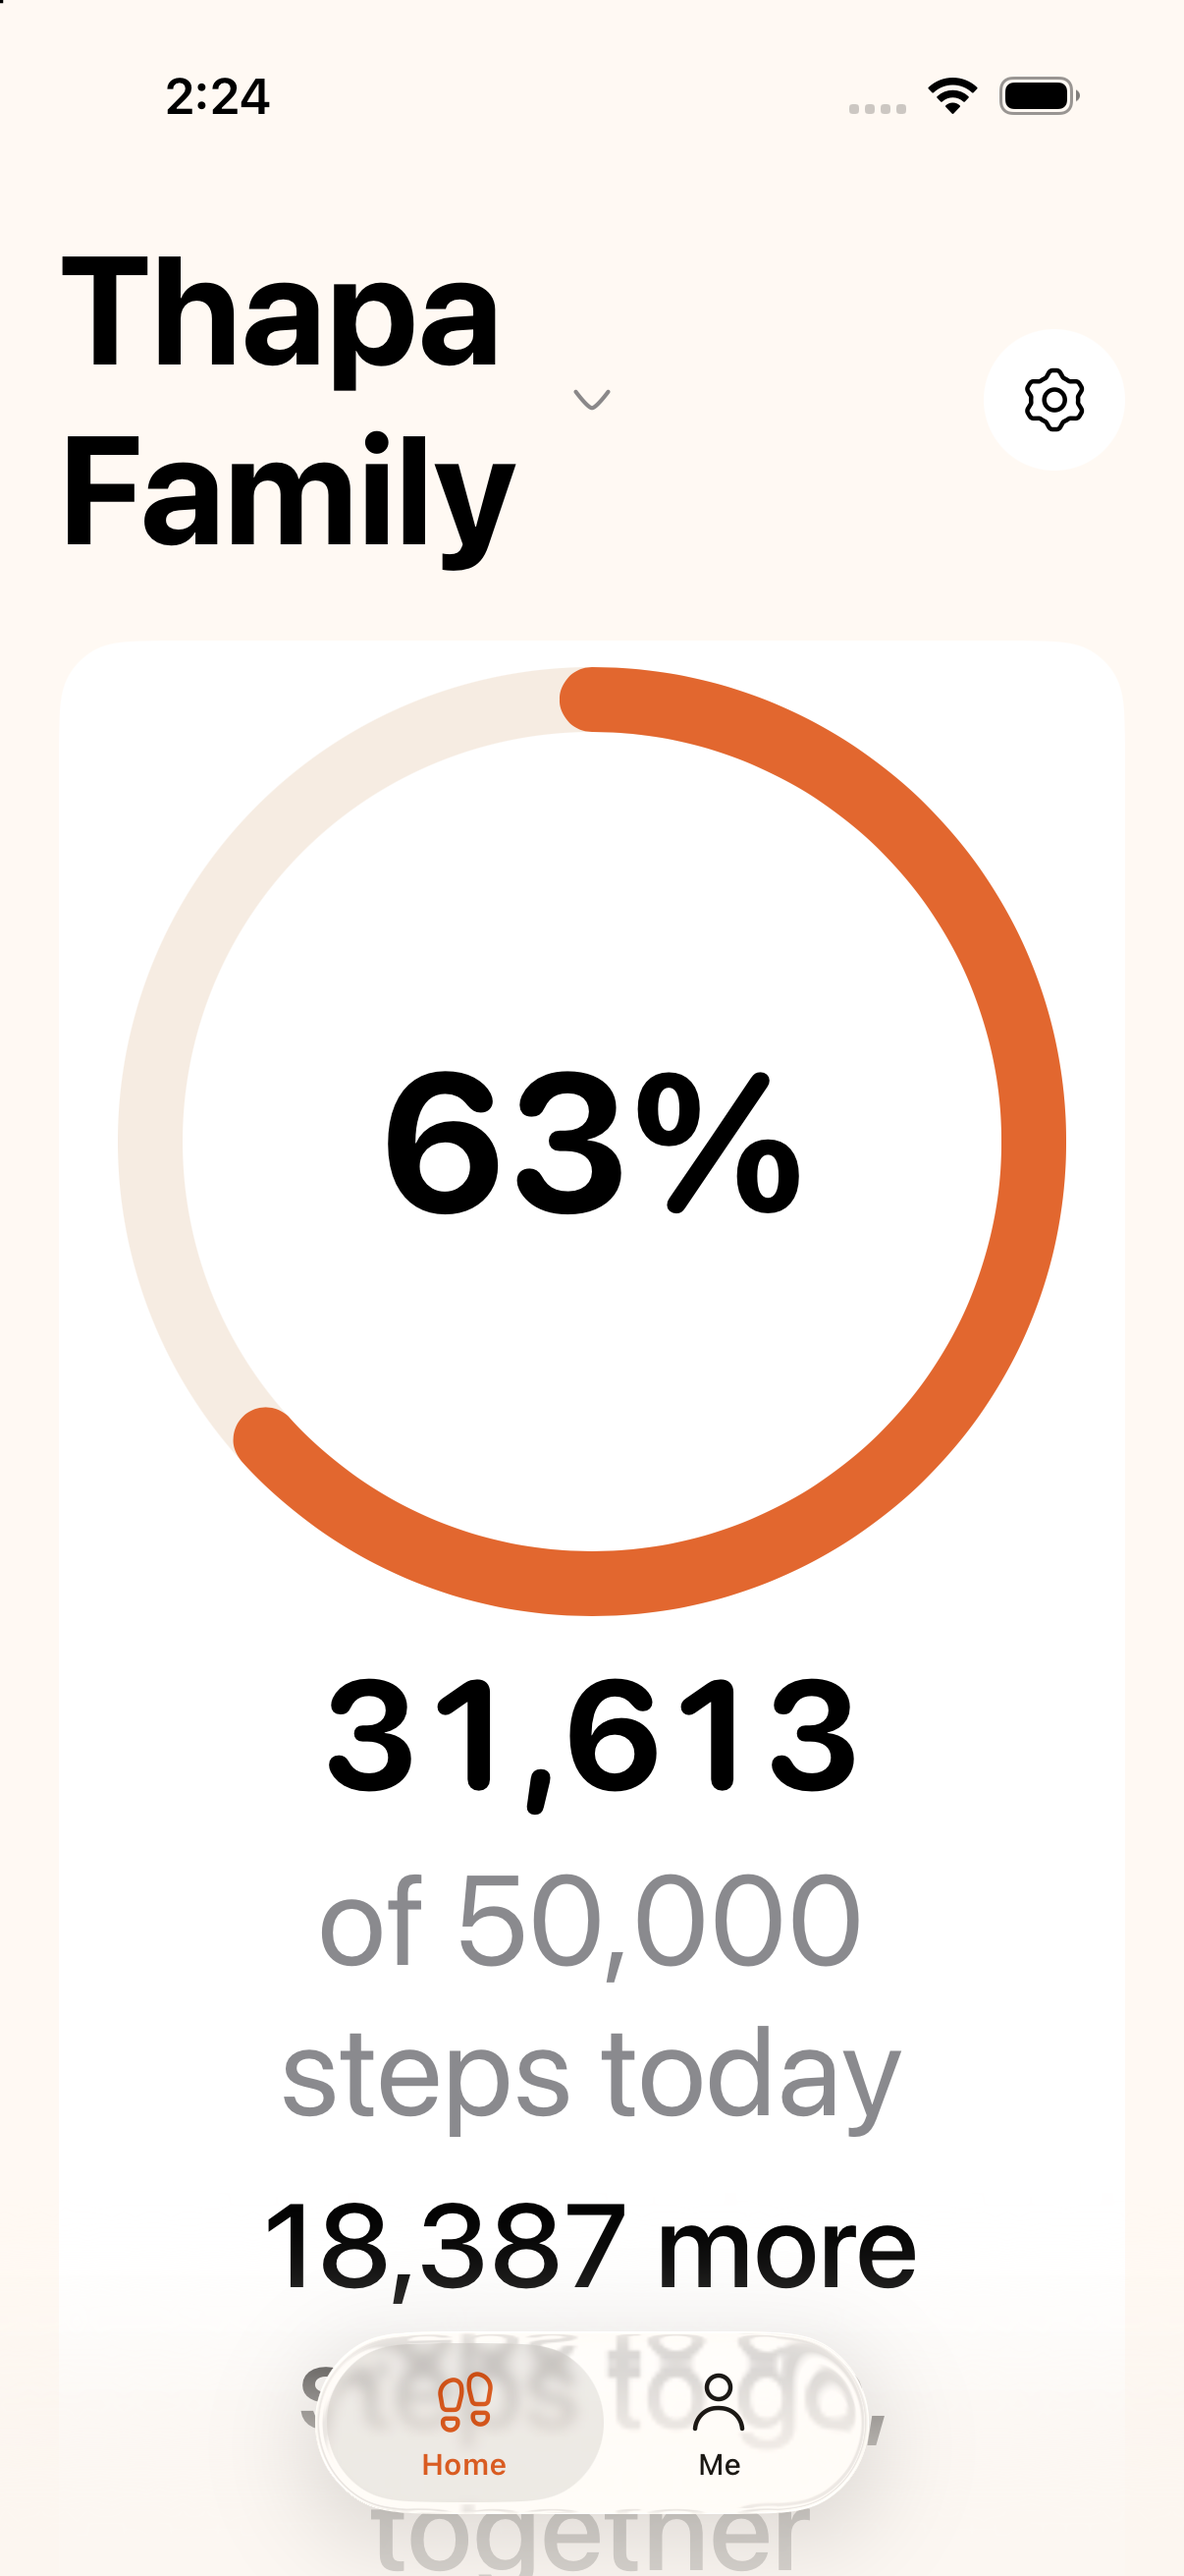
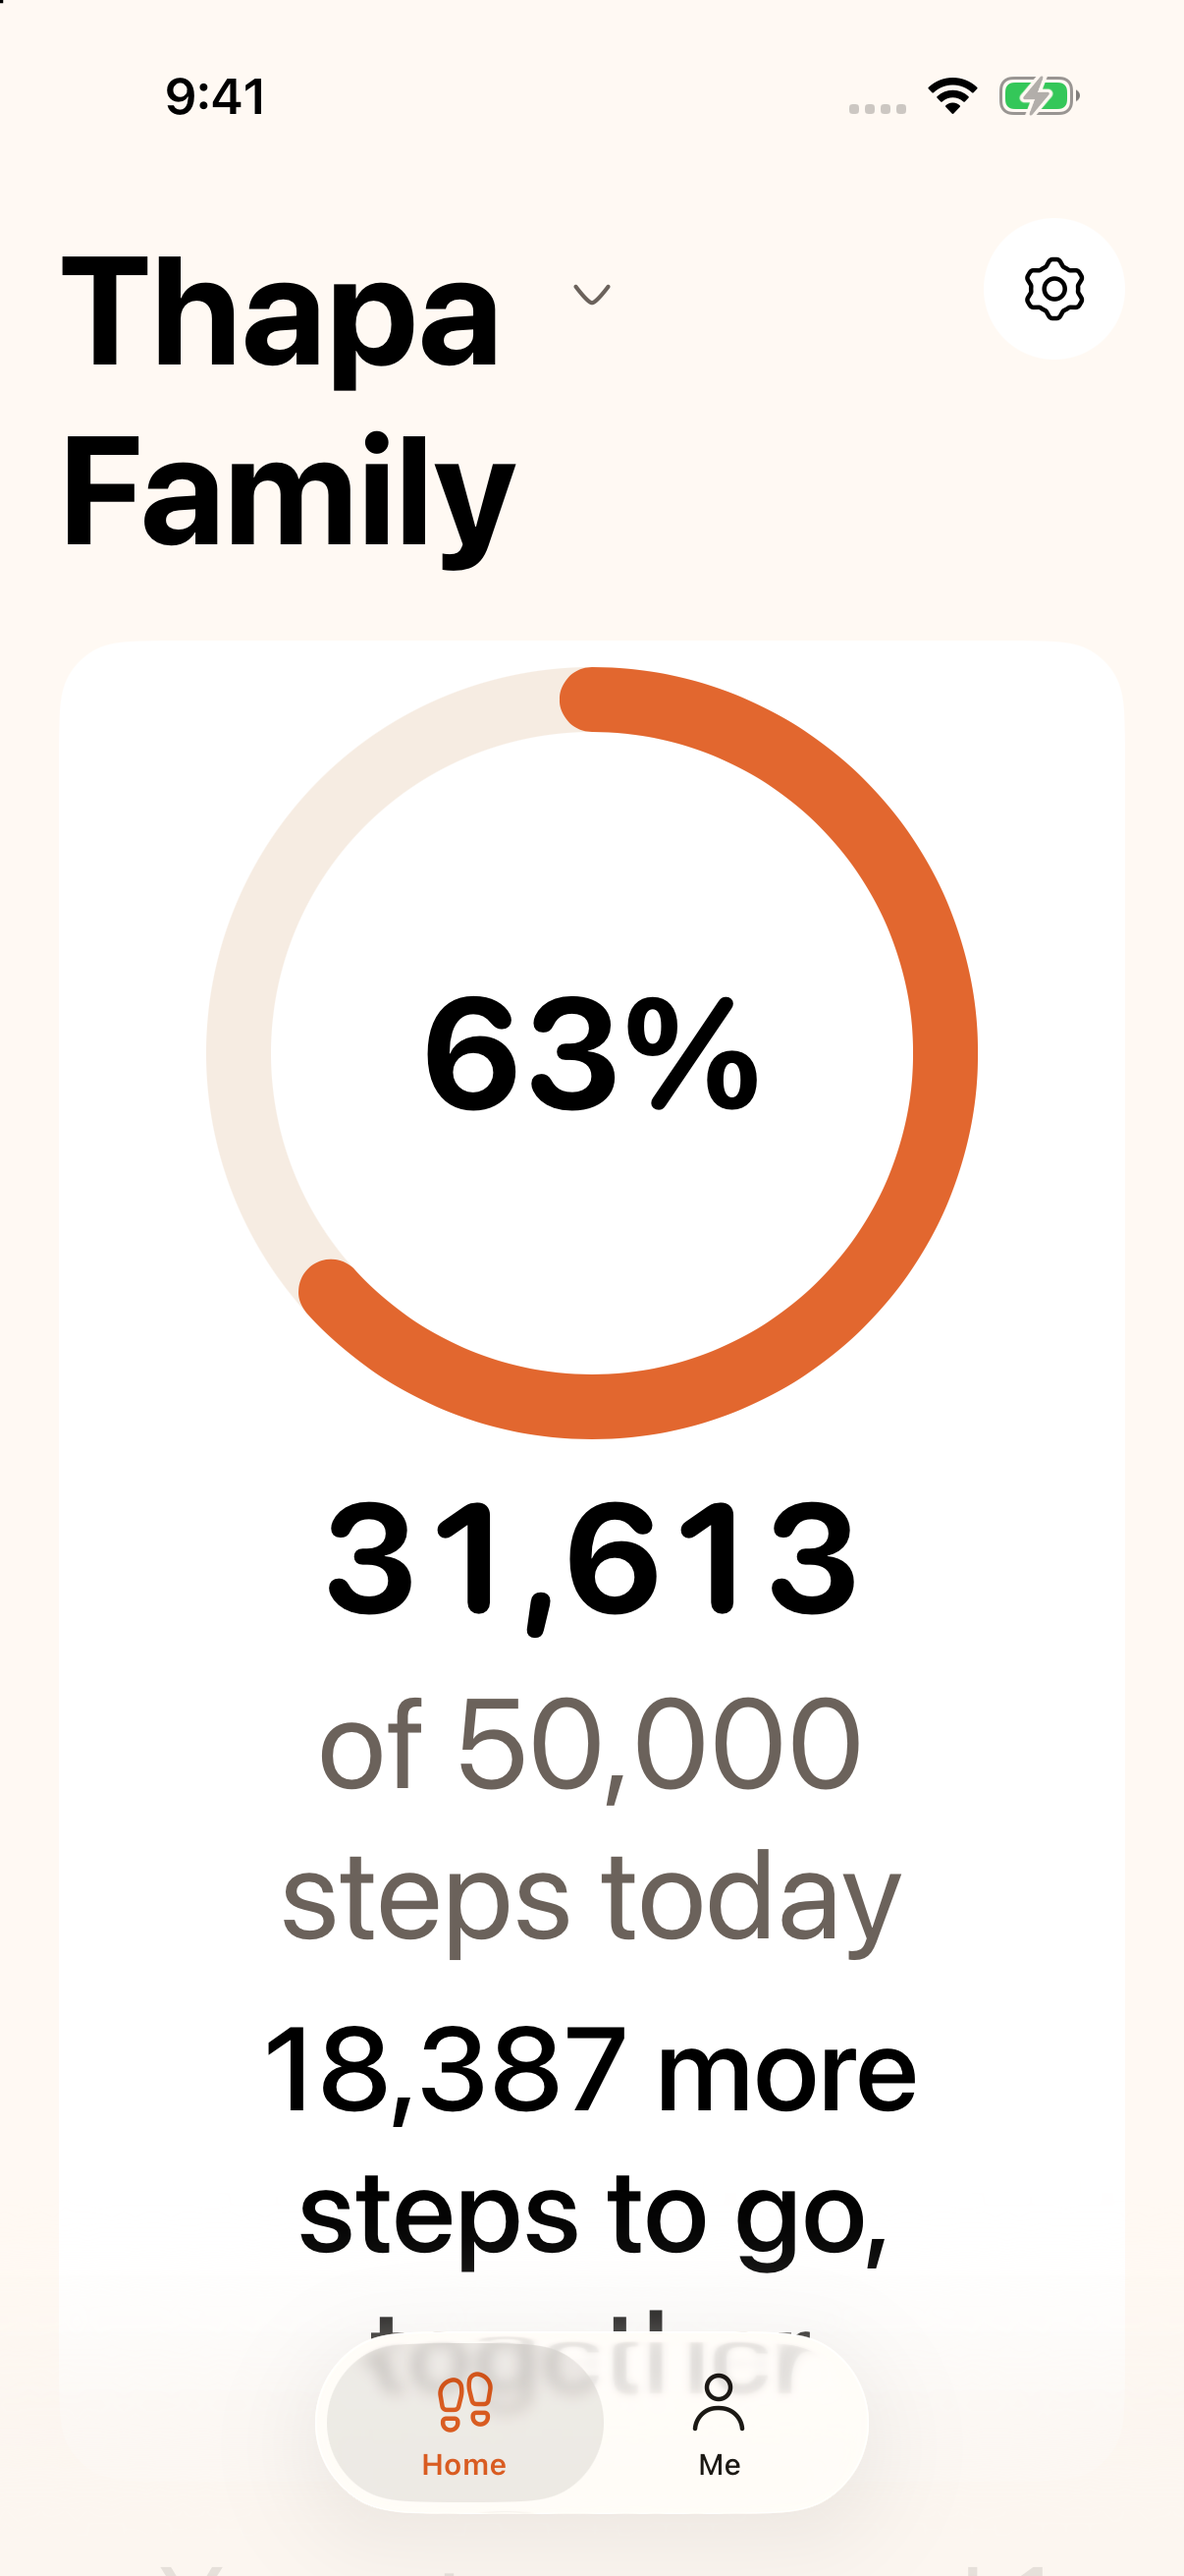
iOS visual and accessibility fixes: invite card, paste button, large-type Home, contrast, destructive delete, Health status wording

diff --git a/handoffs/merged/2026-11-14-1545-ios-visual-fix.md b/handoffs/merged/2026-11-14-1545-ios-visual-fix.md
@@ -1,0 +1,81 @@
+# iOS fix: visual and accessibility issues from screenshots + review
+status: done
+agent: claude claude-opus-5-5
+brief: handoffs/briefs/2026-11-14-1545-ios-visual-fix.md
+## What the user asked
+Fix visual issues 1–9 from the screenshots handoff, plus review findings 2 (goal stepper at accessibility sizes) and 3 (Me must not claim "Connected"), then retake the affected screenshots. (T-4, T-6)
+
+## What changed
+1. **Settings, invite card seam:** the code card now sits inside the list row (new `embedded` option on `InviteCodeCard`), so the code, Share invite and Get a new code read as one rounded group with full-width dividers.
+2. **Join, Paste button:** tinted with the new AA accent. It was pale in the old shot because the clipboard was empty and the system dims `PasteButton` then. With a code on the clipboard it's dark orange with white text (checked).
+3. **Home at accessibility sizes:** header is top-aligned. The chevron sits on the title's first line (scaled offset) and the settings button stays at the top. Ring capped at 240pt (was 300).
+4. **Settings, remove member:** now a visible "Remove" label plus icon in the AA accent. VoiceOver label is still "Remove <name>".
+5. **Me:** "Delete account" uses system red (the brief allows it). Sign out and other list tints use the AA accent.
+6. **Tab bar:** Home gets a 72pt bottom content margin, so the last card clears the floating tab bar at the end of the list.
+7. **Welcome:** feature lines now take the full width (no early wrapping).
+8. **Me top spacing:** the navigation bar is hidden and "Me" is a custom large title, like Home's header. The two titles now start at the same height.
+9. **Grey text contrast:** two new colour assets with dark variants, exposed in `Palette.swift`:
+   - `SecondaryText` (#6B625B light / #B5ABA2 dark, about 5.7:1 on canvas). Every `.foregroundStyle(.secondary)` in Features and Components uses it, as do the Settings and Me list headers and footers.
+   - `AccentText` (#B5481B light / #F28A52 dark, about 5.2:1 on canvas). Use it for accent text and links.
+   - The selected goal preset is now canvas-on-AccentText, which passes AA in both modes. Before, it was white on accent: 3.3:1.
+- **Review 2:** at accessibility sizes, `GoalPicker` shows the number full width with − / + underneath. The number uses lineLimit 1 and shrinks to at least 0.5 scale; `fixedSize` is gone. Verified at 50,000 and 1,000,000. For screenshots, a DEBUG-only `-goal <n>` launch argument sets `CreateGoalView`'s starting goal.
+- **Review 3:** the Health row says **"Permission asked"** in neutral colours, plus "No steps read yet…", until `stepSync.lastSyncedAt` exists. `StepSync.sync()` only sets that after reading non-zero steps. Only then does it say **"Reading steps"** with a green icon and "Steps last sent …". The recovery footer stays visible whenever permission has been asked. I didn't touch the model.
+
+## Files
+- ios/Shared/UI/Palette.swift — modified
+- ios/Shared/SharedAssets.xcassets/Colors/AccentText.colorset/Contents.json — created
+- ios/Shared/SharedAssets.xcassets/Colors/SecondaryText.colorset/Contents.json — created
+- ios/HamroSteps/Components/OrbLoader.swift — modified
+- ios/HamroSteps/Features/Home/HomeView.swift — modified
+- ios/HamroSteps/Features/Me/MeView.swift — modified
+- ios/HamroSteps/Features/Settings/FamilySettingsView.swift — modified
+- ios/HamroSteps/Features/Setup/InviteCodeView.swift — modified
+- ios/HamroSteps/Features/Setup/FamilySetupView.swift — modified
+- ios/HamroSteps/Features/Setup/JoinFamilyView.swift — modified
+- ios/HamroSteps/Features/Onboarding/WelcomeView.swift — modified
+- ios/HamroSteps/Features/Onboarding/HealthPermissionView.swift — modified
+- handoffs/screens/2026-11-14-ios-settings.png — modified
+- handoffs/screens/2026-11-14-ios-join.png — modified
+- handoffs/screens/2026-11-14-ios-me.png — modified
+- handoffs/screens/2026-11-14-ios-welcome.png — modified
+- handoffs/screens/2026-11-14-ios-home.png — modified
+- handoffs/screens/2026-11-14-ios-home-ax.png — modified
+- handoffs/screens/2026-11-14-ios-create-goal-ax.png — created
+- handoffs/screens/2026-11-14-ios-create-goal-ax-1m.png — created
+- handoffs/2026-11-14-1545-ios-visual-fix.md — created
+
+## Checks run
+`ultron check`: passed · 2 of 2 passed · 1m 46s
+- `scripts/check-ios.sh` · passed · 1m 43s
+- `scripts/check-backend.sh` · passed · 3.3 s
+
+Screenshots: iPhone 17 Pro simulator, `-screen <name> -mockSteps`, light mode.
+- Default text size: settings, join, me, welcome, home.
+- `accessibility-extra-large`: home-ax, create-goal-ax (`-goal 50000`), create-goal-ax-1m (`-goal 1000000`).
+- The join shot has "K7M2QX" on the simulator clipboard, so Paste shows its enabled state.
+- Text size, appearance and status bar were reset afterwards.
+
+The first screenshot build ran from a scratch copy. HomeModel.swift (the other worker's file) briefly failed to compile, so the copy had a one-line local patch to that file. The real tree was never edited, and `ultron check` later passed on it.
+
+Not checked:
+- Dark mode screenshots of the changed screens. Contrast was checked by calculation only.
+- VoiceOver.
+- The Settings Remove button at accessibility sizes.
+
+## Libraries used
+- Hugeicons: existing icons reused (user-remove in the new Remove label, health in the Me status). No new icons.
+- Thinking Orbs: none touched (OrbLoader.swift only had its secondary text colour swapped).
+
+## Notes for Jarvis
+- Most of these view files are still untracked or uncommitted phase-2 work (ios-home-mock). Committing them by this list also commits that earlier work.
+- Follow-up I didn't change, since it touches brand colour across the app: filled buttons are white on `AccentColor`, about 3.3:1 in light and 2.5:1 in dark. That's below AA for 17–20pt text. This includes PrimaryButton, Create family and Connect Apple Health. Options: tint them `.accentText` (deeper orange), or darken `AccentColor` itself. It's a call for the user (T-4).
+- Me's "Reading steps" relies on `lastSyncedAt`, which persists across launches. If access is revoked later, the row still says "Reading steps", but the "last sent" time shows how old that is.
+- Suggested commit message: "iOS: fix visual and contrast issues (invite card, paste, AX home header, goal stepper, Me health wording)"
+
+## Checks (run by Ultron)
+Passed · 2 of 2 · 1m 32s · 2026-11-14 14:36 · in `/Users/subixu/BIXUSTUDIO/DEV/hamro-steps`
+- `scripts/check-ios.sh` · passed · 1m 28s
+- `scripts/check-backend.sh` · passed · 4.2 s
+
+## Second opinion
+Skipped at merge: view edits already landed in e02377b (shared checkout); remainder is 2 colorsets + screenshots; Jarvis reviewed screenshots (2026-11-14 14:38)

diff --git a/handoffs/briefs/2026-11-14-1545-ios-visual-fix.md b/handoffs/briefs/2026-11-14-1545-ios-visual-fix.md
@@ -1,0 +1,51 @@
+# iOS fix: visual and accessibility issues from screenshots + review
+worker: claude
+model: claude-opus-5-5
+effort: medium
+started: 2026-11-14 14:26 · terminal: s_82c1054a
+Tasks: T-4, T-6
+files: ios/HamroSteps/Features/**/*View*.swift, ios/HamroSteps/Components/**, ios/Shared/UI/**, ios/Shared/SharedAssets.xcassets/Colors/**, handoffs/screens/**
+
+## Goal
+Fix the visual issues 1–9 in `handoffs/merged/2026-11-14-1530-ios-screenshots.md` ("Visual issues seen") and findings 2 and 3 of `handoffs/reviews/2026-11-14-1425-ios-home-mock-second.md`. Then retake the affected screenshots the same way (that handoff's brief, `handoffs/merged/2026-11-14-1530-ios-screenshots.md`, has the commands). Done = `ultron check` green and the new screenshots attached.
+
+## Context
+Read narrowly: `grep -n` / `sed -n` ranges only; don't cat whole files.
+- Principles (PRD): built for parents, large text, plain words, celebrate never shame. Contrast at least WCAG AA for text.
+- **Destructive actions:** "Delete account" may use the system destructive role (red) in Me. That's a standard iOS cue for a destructive action, not a "failure state", so it's allowed.
+- **Review 2:** the goal stepper in create-family stacks at accessibility sizes. Verify at 50,000 and 1,000,000.
+- **Review 3:** Me's Health status must not claim "Connected" from the request status alone. Use neutral wording ("Permission asked") and show "Reading steps" only when real step data has been read. Keep the recovery hint visible.
+- **Home at accessibility sizes:** the header must lay out cleanly, and the ring is capped in size. Add a bottom content inset so the floating tab bar never covers the last row.
+- Another worker is editing `HomeModel.swift`, `StepSync.swift` and `MockFamilyService.swift` at the same time. Don't touch those. If you need data from the model, ask in the handoff instead of editing it.
+
+## Libraries and design rules
+<!-- written by jarvis spawn from `ultron knowledge show`; replaced on every spawn -->
+### Libraries
+
+- **Hugeicons** (icons): Use Hugeicons for every icon in the UI, keeping one style and stroke weight throughout and colouring with currentColor. No emoji and no hand-drawn SVG icons.
+- **Thinking Orbs** (loading): Use Thinking Orbs for every AI "thinking" or loading state instead of a spinner. On web render <ThinkingOrb state="..." size={64|20} /> and pick the state that matches the activity (e.g. searching, composing). Set up: Web: `npm install thinking-orbs`; Mac: `Swift Package Manager: add https://github.com/Jakubantalik/Libraries.dev (branch main), product ThinkingOrbsKit`; iOS: `Swift Package Manager: add https://github.com/Jakubantalik/Libraries.dev (branch main), product ThinkingOrbsKit`. iOS: The page doesn't explicitly say the Swift package supports iOS or macOS, and it gives no CocoaPods option. Mac: The page doesn't explicitly say the Swift package supports macOS; SwiftUI support is implied only. Web: Requires React 18 or newer; the page lists only an npm install line.
+
+### Releasing
+
+- Pushing the default branch isn't a release: each project's Jarvis
+  commits and pushes its own main (a plain fast-forward) and never leaves
+  the push for the user, unless the project marks main as a release
+  (`gates.default_branch_is_release: true`).
+- Releasing is the user's: Ultron blocks agents from tagging, force-pushing,
+  deploying to production or submitting to a store. Ask the user to do it.
+- Every release gets a changelog entry in the user's voice: what changed for
+  the person using the app, not which files moved.
+- Version numbers are semantic. A release that changes stored data bumps
+  the minor version and ships a migration with a rollback note.
+- Preview or staging deployments are fine without the user; say where the
+  preview is in the handoff.
+
+## Scope
+- May touch: the `files:` list
+- Must not touch: `ios/HamroSteps/Features/Home/HomeModel.swift`, `ios/HamroSteps/Sync/**`, `ios/HamroSteps/Services/**`, `ios/HamroStepsTests/**`, `backend/`, `docs/`
+
+## Checks
+`ultron check`, plus the new screenshots: settings, join, home-ax, me, welcome, create-goal-ax.
+
+## Questions first
+No questions expected; build straight through.

diff --git a/handoffs/OPEN.md b/handoffs/OPEN.md
@@ -15,7 +15,6 @@ Usage band: <green | amber | red> — `handoffs/bin/jarvis status` writes it fro
 
 ## Running workers
 - 2026-11-14 14:35 · claude/claude-opus-5-5 high · term s_d15669fa · handoffs/briefs/2026-11-14-1415-convex-core.md
-- 2026-11-14 14:26 · claude/claude-opus-5-5 medium · term s_82c1054a · handoffs/briefs/2026-11-14-1545-ios-visual-fix.md
 - 2026-11-14 14:06 · codex/gpt-6-astra high · term s_9dd4f84f · handoffs/briefs/2026-11-14-1440-app-icon.md
 - 2026-11-14 14:06 · claude/claude-opus-5-5 high · term s_b2eb48e6 · handoffs/briefs/2026-11-14-1440-ios-activity-ui.md · isolate: /Users/subixu/.jarvis-worktrees/hamro-steps/ios-activity-ui · branch: jw/ios-activity-ui
 <!-- `jarvis spawn` adds: - <date HH:MM> · claude/claude-opus-5-5 high · term <id> · handoffs/briefs/<file>.md -->
